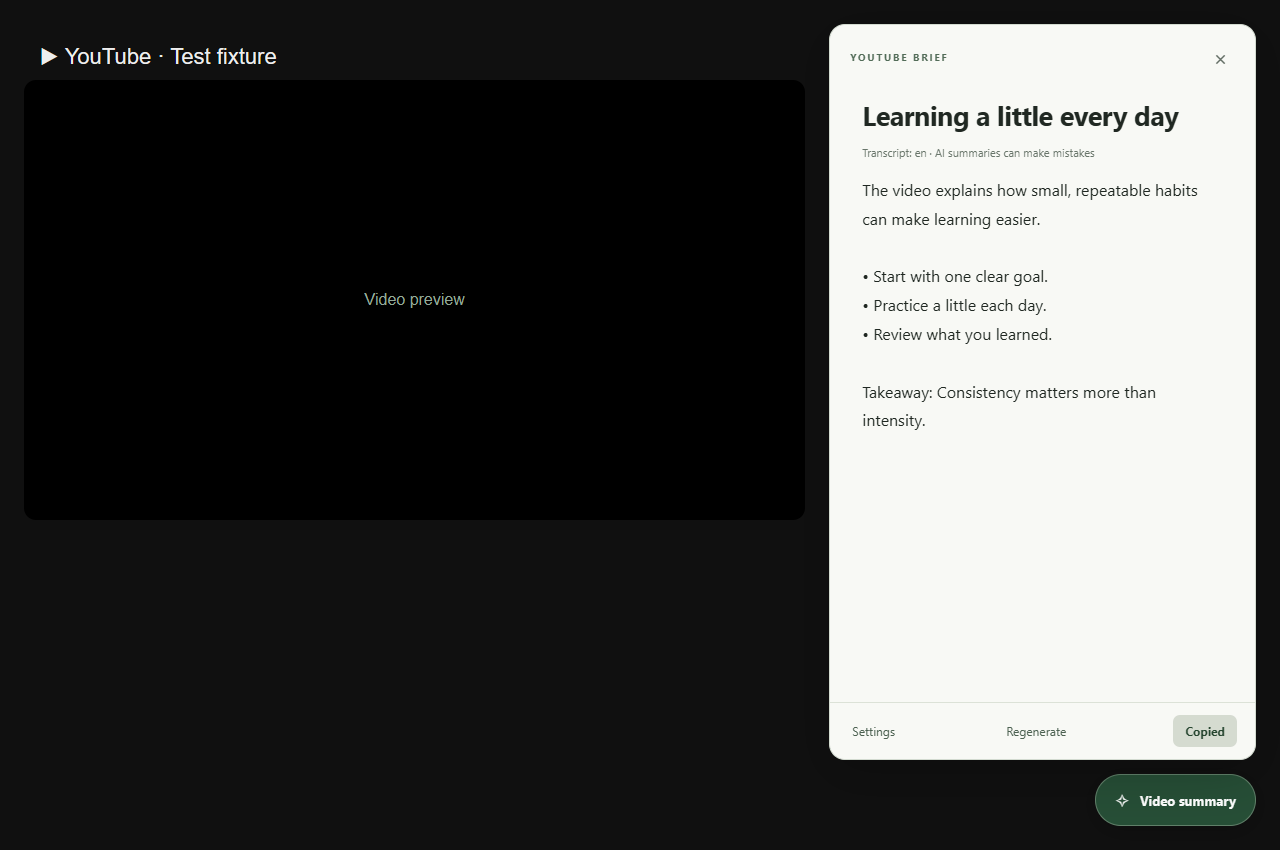
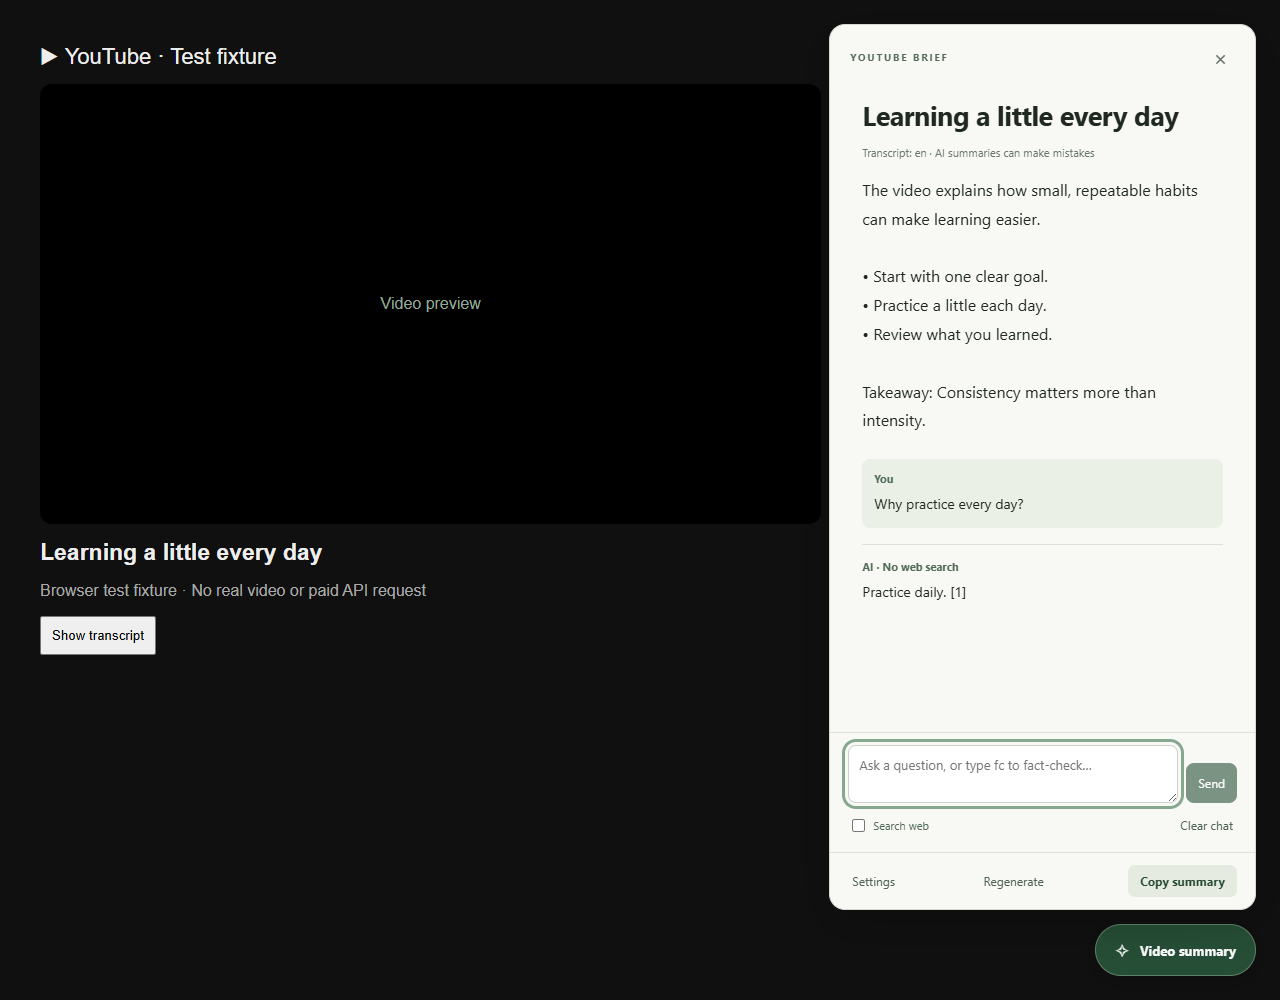
docs: refresh README preview with current summary and chat UI

diff --git a/tests/browser-smoke.js b/tests/browser-smoke.js
@@ -230,6 +230,10 @@ try {
   assert.match(chatRequest.input[0].content, /clear learning goal/);
   assert.equal(chatRequest.input.at(-1).content, "Why practice every day?");
   assert.equal(chatRequest.tools, undefined);
+  await page.setViewportSize({ width: 1280, height: 1000 });
+  await page.locator(".body").evaluate(node => { node.scrollTop = 0; });
+  await page.screenshot({ path: "test-results/preview.png" });
+  await page.setViewportSize({ width: 1280, height: 850 });
   await question.fill("fc");
   await worker.evaluate(() => { globalThis.testPartial = true; });
   await page.getByRole("button", { name: "Send", exact: true }).click();

diff --git a/README.md b/README.md
@@ -2,9 +2,9 @@
 
 A local Chrome extension that summarizes the current YouTube video from its transcript using your OpenAI API key. Plain JavaScript, a spacious reading panel beside the video, and no server or build step.
 
-![Summary panel showing a simulated browser-test response](docs/preview.png)
+![Current summary panel with a follow-up conversation and chat input](docs/preview.png)
 
-*Preview uses a simulated response from the browser test.*
+*Preview shows the current extension UI with simulated summary and chat responses from the browser test.*
 
 ## Install in Chrome
 
